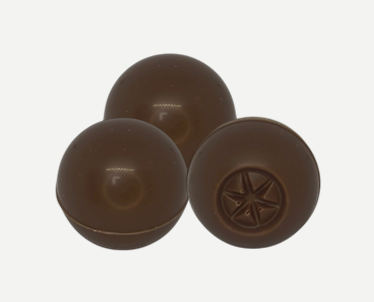
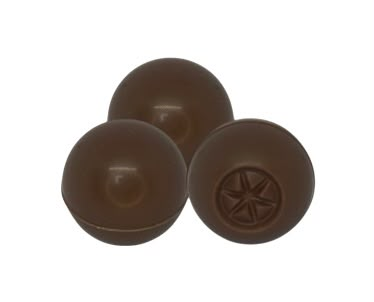
Nova foto do produto, botões uniformes e ajustes de texto
- Substitui a foto das trufas (fundo branco) e ajusta a moldura p/ branco.
- Botões WhatsApp/Formulário/E-mail agora empilhados com o mesmo tamanho.
- Texto "Qualidade competitiva" e fecho "mercado nacional" atualizados.

diff --git a/index.html b/index.html
@@ -25,7 +25,7 @@
     --gold-2:#c69a54;
     --choc:#4a2f1c;
     --line:#e0d3bd;
-    --photo-bg:#f3f3f2;
+    --photo-bg:#ffffff;
   }
   *{box-sizing:border-box;margin:0;padding:0}
   html{scroll-behavior:smooth}
@@ -79,8 +79,8 @@
   .product-name{font-family:'Petrona',serif;font-size:clamp(2.6rem,6vw,4.4rem);line-height:.98;font-weight:600;letter-spacing:-.02em}
   .product-name em{font-style:italic;color:var(--choc)}
   .lead{margin-top:22px;max-width:44ch;color:var(--muted);font-size:1.12rem}
-  .cta{display:flex;gap:14px;flex-wrap:wrap;margin-top:32px}
-  .btn{display:inline-flex;align-items:center;gap:10px;padding:14px 24px;border-radius:40px;font-weight:600;font-size:.95rem;text-decoration:none;transition:transform .25s cubic-bezier(.2,.7,.2,1),box-shadow .25s,background .25s}
+  .cta{display:flex;flex-direction:column;gap:12px;margin-top:32px;max-width:300px}
+  .btn{display:inline-flex;align-items:center;justify-content:center;gap:10px;padding:14px 24px;border-radius:40px;font-weight:600;font-size:.95rem;text-decoration:none;transition:transform .25s cubic-bezier(.2,.7,.2,1),box-shadow .25s,background .25s}
   .btn svg{width:18px;height:18px}
   .btn-primary{background:var(--choc);color:var(--cream);box-shadow:0 12px 28px -12px rgba(74,47,28,.7)}
   .btn-primary:hover{transform:translateY(-2px);background:#3a2415;box-shadow:0 18px 34px -14px rgba(74,47,28,.8)}
@@ -266,14 +266,14 @@ FINISH: unreviewed and undocumented is unfinished; this build ends with the fini
         </div>
         <div class="val">
           <h3>Qualidade competitiva</h3>
-          <p>Desenvolvidos para competir de igual para igual com os similares importados.</p>
+          <p>Desenvolvidos para competir com os produtos similares que são importados.</p>
         </div>
         <div class="val">
           <h3>Proximidade</h3>
           <p>Atendimento direto, sem intermediários e entrega rápida.</p>
         </div>
       </div>
-      <p class="values-close">Queremos atender a necessidade do mercado local com produtos locais e acessíveis.</p>
+      <p class="values-close">Queremos atender a necessidade do mercado nacional com produtos locais e acessíveis.</p>
     </div>
   </section>
 
